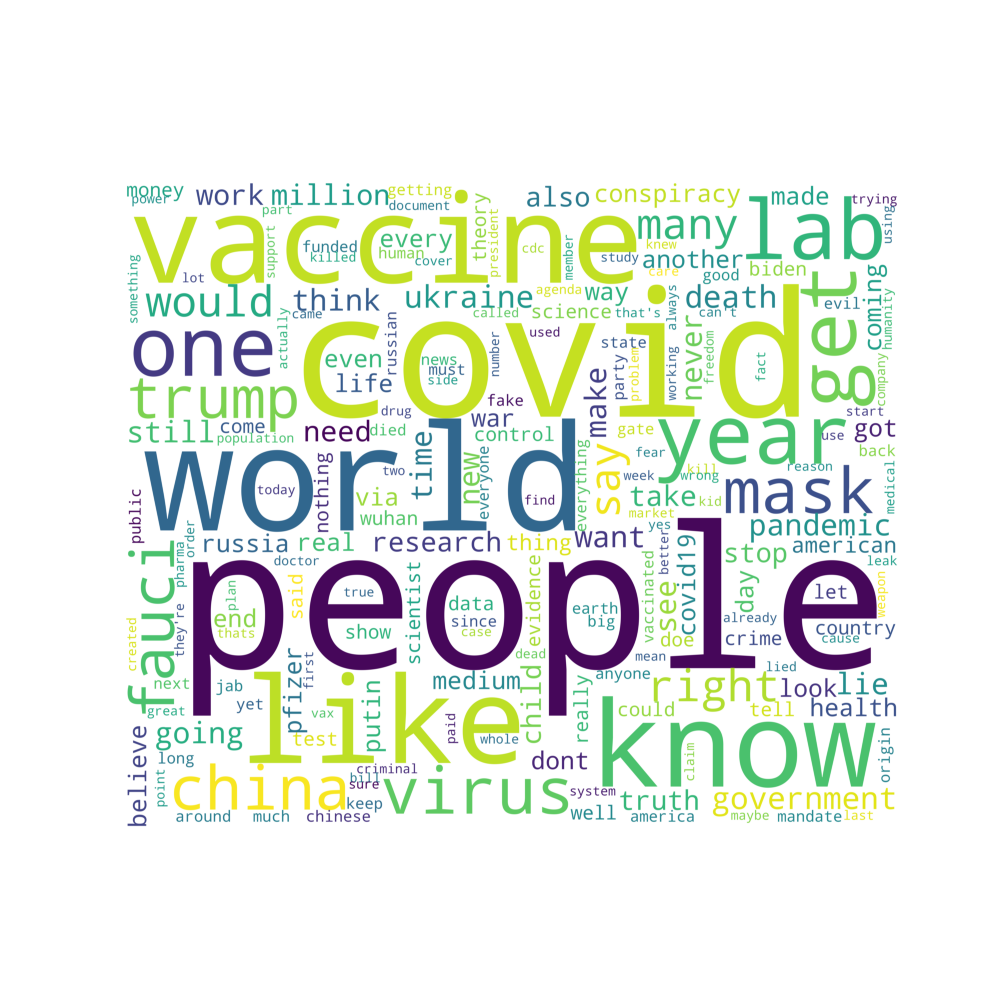
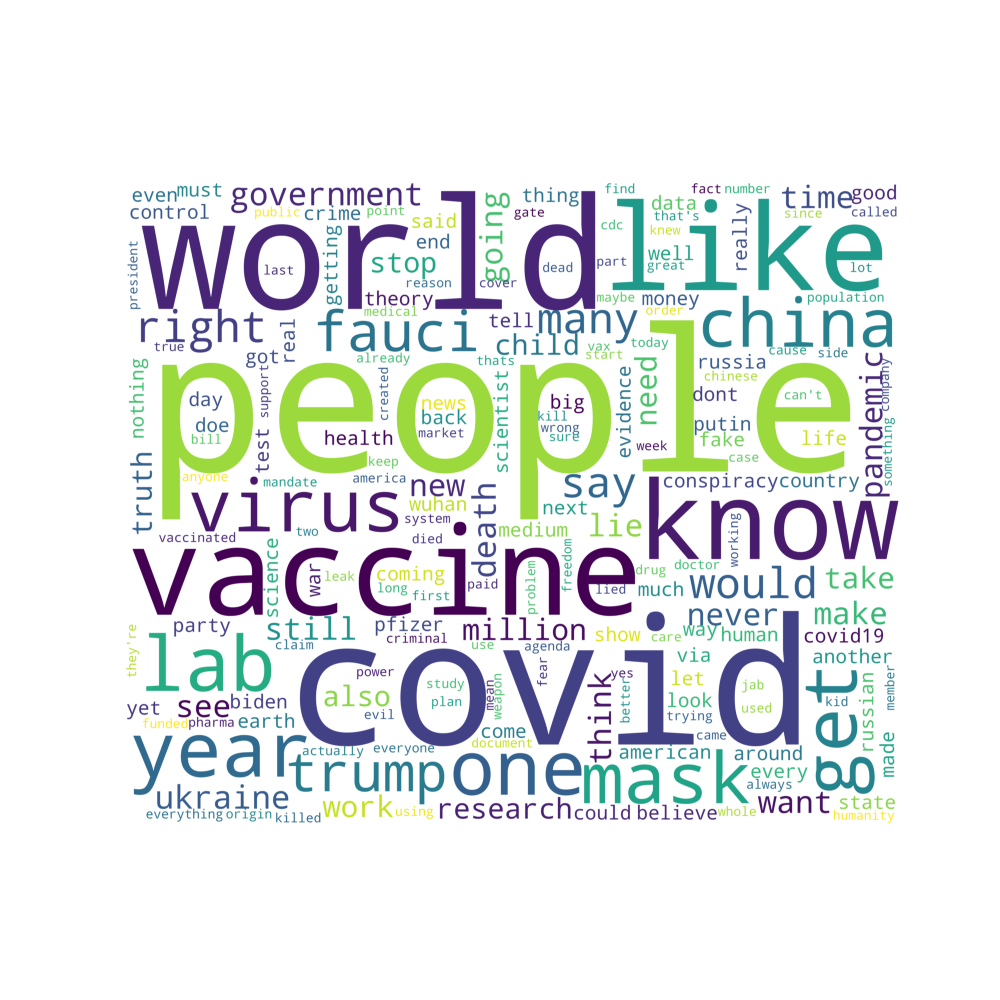
new front end

Changed region(s): [[0.124, 0.186, 0.899, 0.837]]

diff --git a/Web/data_analysis_app/my-project/pages/MachineLearning/MachineLearningPage.js b/Web/data_analysis_app/my-project/pages/MachineLearning/MachineLearningPage.js
@@ -105,7 +105,7 @@ export default function MachineLearningPage() {
           data={BertData}
           keyOne={"Training Loss"}
           keyTwo={"Testing Loss"}
-          title={"Bert Training Loss vs Testing Accuracy"}
+          title={"Bert Training Loss vs Testing Loss"}
           xAxisKey={"epoch"}
           description={"Debug Message"}
           yAxisDomain={[0, 0.02]}
@@ -113,39 +113,19 @@ export default function MachineLearningPage() {
         />
         <RechartsCard
           data={BertData}
-          keyOne={"Testing Loss"}
+          keyOne={"Training Accuracy"}
           keyTwo={"Testing Accuracy"}
-          title={"Bert Testing Loss vs Testing Accuracy"}
+          title={"Bert Training Accuracy vs Testing Accuracy"}
           xAxisKey={"epoch"}
           description={"Debug Message"}
-          yAxisDomain={[0, 0.02]}
-          reverseArea={false}
-        />
-        <RechartsCard
-          data={BertData}
-          keyOne={"Training F-1 Score"}
-          keyTwo={"Testing F-1 Score"}
-          title={"Bert Training F-1 Score vs Testing F-1 Score"}
-          xAxisKey={"epoch"}
-          description={"Debug Message"}
-          yAxisDomain={[0.65, 1]}
-          reverseArea={false}
-        />
-        <RechartsCard
-          data={LstmData}
-          keyOne={"Validation Accuracy"}
-          keyTwo={"Training Loss"}
-          title={"LSTM Training Loss vs Testing Accuracy"}
-          xAxisKey={"epoch"}
-          description={"Debug Message"}
-          yAxisDomain={[0, 1]}
+          yAxisDomain={[0.7, 1]}
           reverseArea={false}
         />
         <RechartsCard
           data={LstmData}
           keyOne={"Validation Accuracy"}
           keyTwo={"Training Accuracy"}
-          title={"LSTM Training Loss vs Testing Accuracy"}
+          title={"LSTM Training Accuracy vs Testing Accuracy"}
           xAxisKey={"epoch"}
           description={"Debug Message"}
           yAxisDomain={[0.5, 1]}

diff --git a/Web/data_analysis_app/my-project/pages/SA/SentimentAnalysisPage.js b/Web/data_analysis_app/my-project/pages/SA/SentimentAnalysisPage.js
@@ -50,12 +50,14 @@ export default function SAPage() {
     {
       imgPath: "/SA/covid_result.png",
       title: "Predicted Label for Covid Tweets",
-      description: "this is descrpition",
+      description:
+        "The prediction of the COVID19 related Tweets shows there are some Tweets contain conspiracy theories that might make people feel scared and confused, though the most of them do not contain that.",
     },
     {
       imgPath: "/SA/covid_senti_pred.png",
       title: "Sentiment Analysis for Covid Tweets",
-      description: "this is descrpition",
+      description:
+        "Here are the results of analyzing the sentiment of Tweets related to COVID-19. From the results, the negative sentiment accounts for the majority, and regardless of the label of the model classification, the proportion of negative sentiment in the two classes is similar.",
     },
     {
       imgPath: "/SA/truckers_calendar.png",
@@ -72,12 +74,14 @@ export default function SAPage() {
     {
       imgPath: "/SA/truckers_result.png",
       title: "Predicted Label for Truckers Movement Tweets",
-      description: "this is descrpition",
+      description:
+        "The prediction of the Truckers for Freedom related Tweets shows there are some Tweets contain conspiracy theories that might make people feel scared and confused, though the most of them do not contain that.",
     },
     {
       imgPath: "/SA/truckers_senti_pred.png",
       title: "Sentiment Analysis for Truckers Movement Tweets",
-      description: "this is descrpition",
+      description:
+        "Here are the results of analyzing the sentiment of Tweets related to the Truckers Movement. The negative sentiment made up most of the tweets classified as misleading information. On the contrary, among the Tweets classified as non-misleading information, the proportion of positive sentiment accounted for 43.3%.",
     },
   ];
 

diff --git a/Web/data_analysis_app/my-project/pages/EDA/EDAPage.js b/Web/data_analysis_app/my-project/pages/EDA/EDAPage.js
@@ -5,7 +5,7 @@ import PageCard from "../share/PageCard";
 export default function EDAPage() {
   const EDAContent = [
     {
-      imgPath: "/EDA/top_50_most_frequent_tokens.png",
+      imgPath: "/EDA/Top50_tokens.png",
       title: "Top 50 Most Frequent Tokens(Word) for All Data",
       description:
         "The top 50 most frequent tokens from tweet text suggest that COVID and Donald Trump are two important themes in the dataset, given the presence of 'covid', 'trump', 'mask', and 'vaccine'. ",
@@ -13,7 +13,8 @@ export default function EDAPage() {
     {
       imgPath: "/EDA/Top50_tokens_label1.png",
       title: "Top 50 Most Frequent Tokens(Word) for Conspiracy data",
-      description: "Description Needed",
+      description:
+        "The top 50 most common words in the tweets containing conspiracy theories are highly related to the COVID-19. The words 'covid', 'vaccine', 'lab' and 'virus' take more percentage in those tweets.",
     },
     {
       imgPath: "/EDA/wordcloud.png",
@@ -24,7 +25,8 @@ export default function EDAPage() {
     {
       imgPath: "/EDA/wordcloud_label1.png",
       title: "Word Cloud for Conspiracy data",
-      description: "Description Needed",
+      description:
+        "The words 'people', 'covid', 'world', 'vaccine' are larger and bolder. Those words are the most popular in conspiracy theories tweets.",
     },
   ];
 

diff --git a/Web/data_analysis_app/my-project/pages/share/RechartsCard.js b/Web/data_analysis_app/my-project/pages/share/RechartsCard.js
@@ -13,7 +13,7 @@ import {
 export default function RechartsCard(props) {
   return (
     <div className={TailwindStyles.recahrtsCard}>
-      <ResponsiveContainer className="h-4/6" height={350}>
+      <ResponsiveContainer className="h-5/6" height={350}>
         <AreaChart
           data={props.data}
           //   height={1000}
@@ -56,9 +56,9 @@ export default function RechartsCard(props) {
       </ResponsiveContainer>
       <div className="px-6 py-4">
         <div className={TailwindStyles.pageCardTitle}>{props.title}</div>
-        <p className={TailwindStyles.pageCardDescription}>
+        {/* <p className={TailwindStyles.pageCardDescription}>
           {props.description}
-        </p>
+        </p> */}
       </div>
     </div>
   );

diff --git a/Web/data_analysis_app/my-project/README.md b/Web/data_analysis_app/my-project/README.md
@@ -1,13 +1,34 @@
+This is a [Next.js](https://nextjs.org/) project bootstrapped with [`create-next-app`](https://github.com/vercel/next.js/tree/canary/packages/create-next-app).
+
 ## Getting Started
 
-First, run the development server:
+First, navigate to the my-project folder and then run the development server:
 
 ```bash
 npm run dev
+# or
+yarn dev
 ```
 
 Open [http://localhost:3000](http://localhost:3000) with your browser to see the result.
 
-## Deployment
+You can start editing the page by modifying `pages/index.js`. The page auto-updates as you edit the file.
 
-Feel free to check out our deployed version via [website](https://733-project.vercel.app/)
+[API routes](https://nextjs.org/docs/api-routes/introduction) can be accessed on [http://localhost:3000/api/hello](http://localhost:3000/api/hello). This endpoint can be edited in `pages/api/hello.js`.
+
+The `pages/api` directory is mapped to `/api/*`. Files in this directory are treated as [API routes](https://nextjs.org/docs/api-routes/introduction) instead of React pages.
+
+## Learn More
+
+To learn more about Next.js, take a look at the following resources:
+
+- [Next.js Documentation](https://nextjs.org/docs) - learn about Next.js features and API.
+- [Learn Next.js](https://nextjs.org/learn) - an interactive Next.js tutorial.
+
+You can check out [the Next.js GitHub repository](https://github.com/vercel/next.js/) - your feedback and contributions are welcome!
+
+## Deploy on Vercel
+
+The easiest way to deploy your Next.js app is to use the [Vercel Platform](https://vercel.com/new?utm_medium=default-template&filter=next.js&utm_source=create-next-app&utm_campaign=create-next-app-readme) from the creators of Next.js.
+
+Check out our [Next.js deployment documentation](https://nextjs.org/docs/deployment) for more details.
